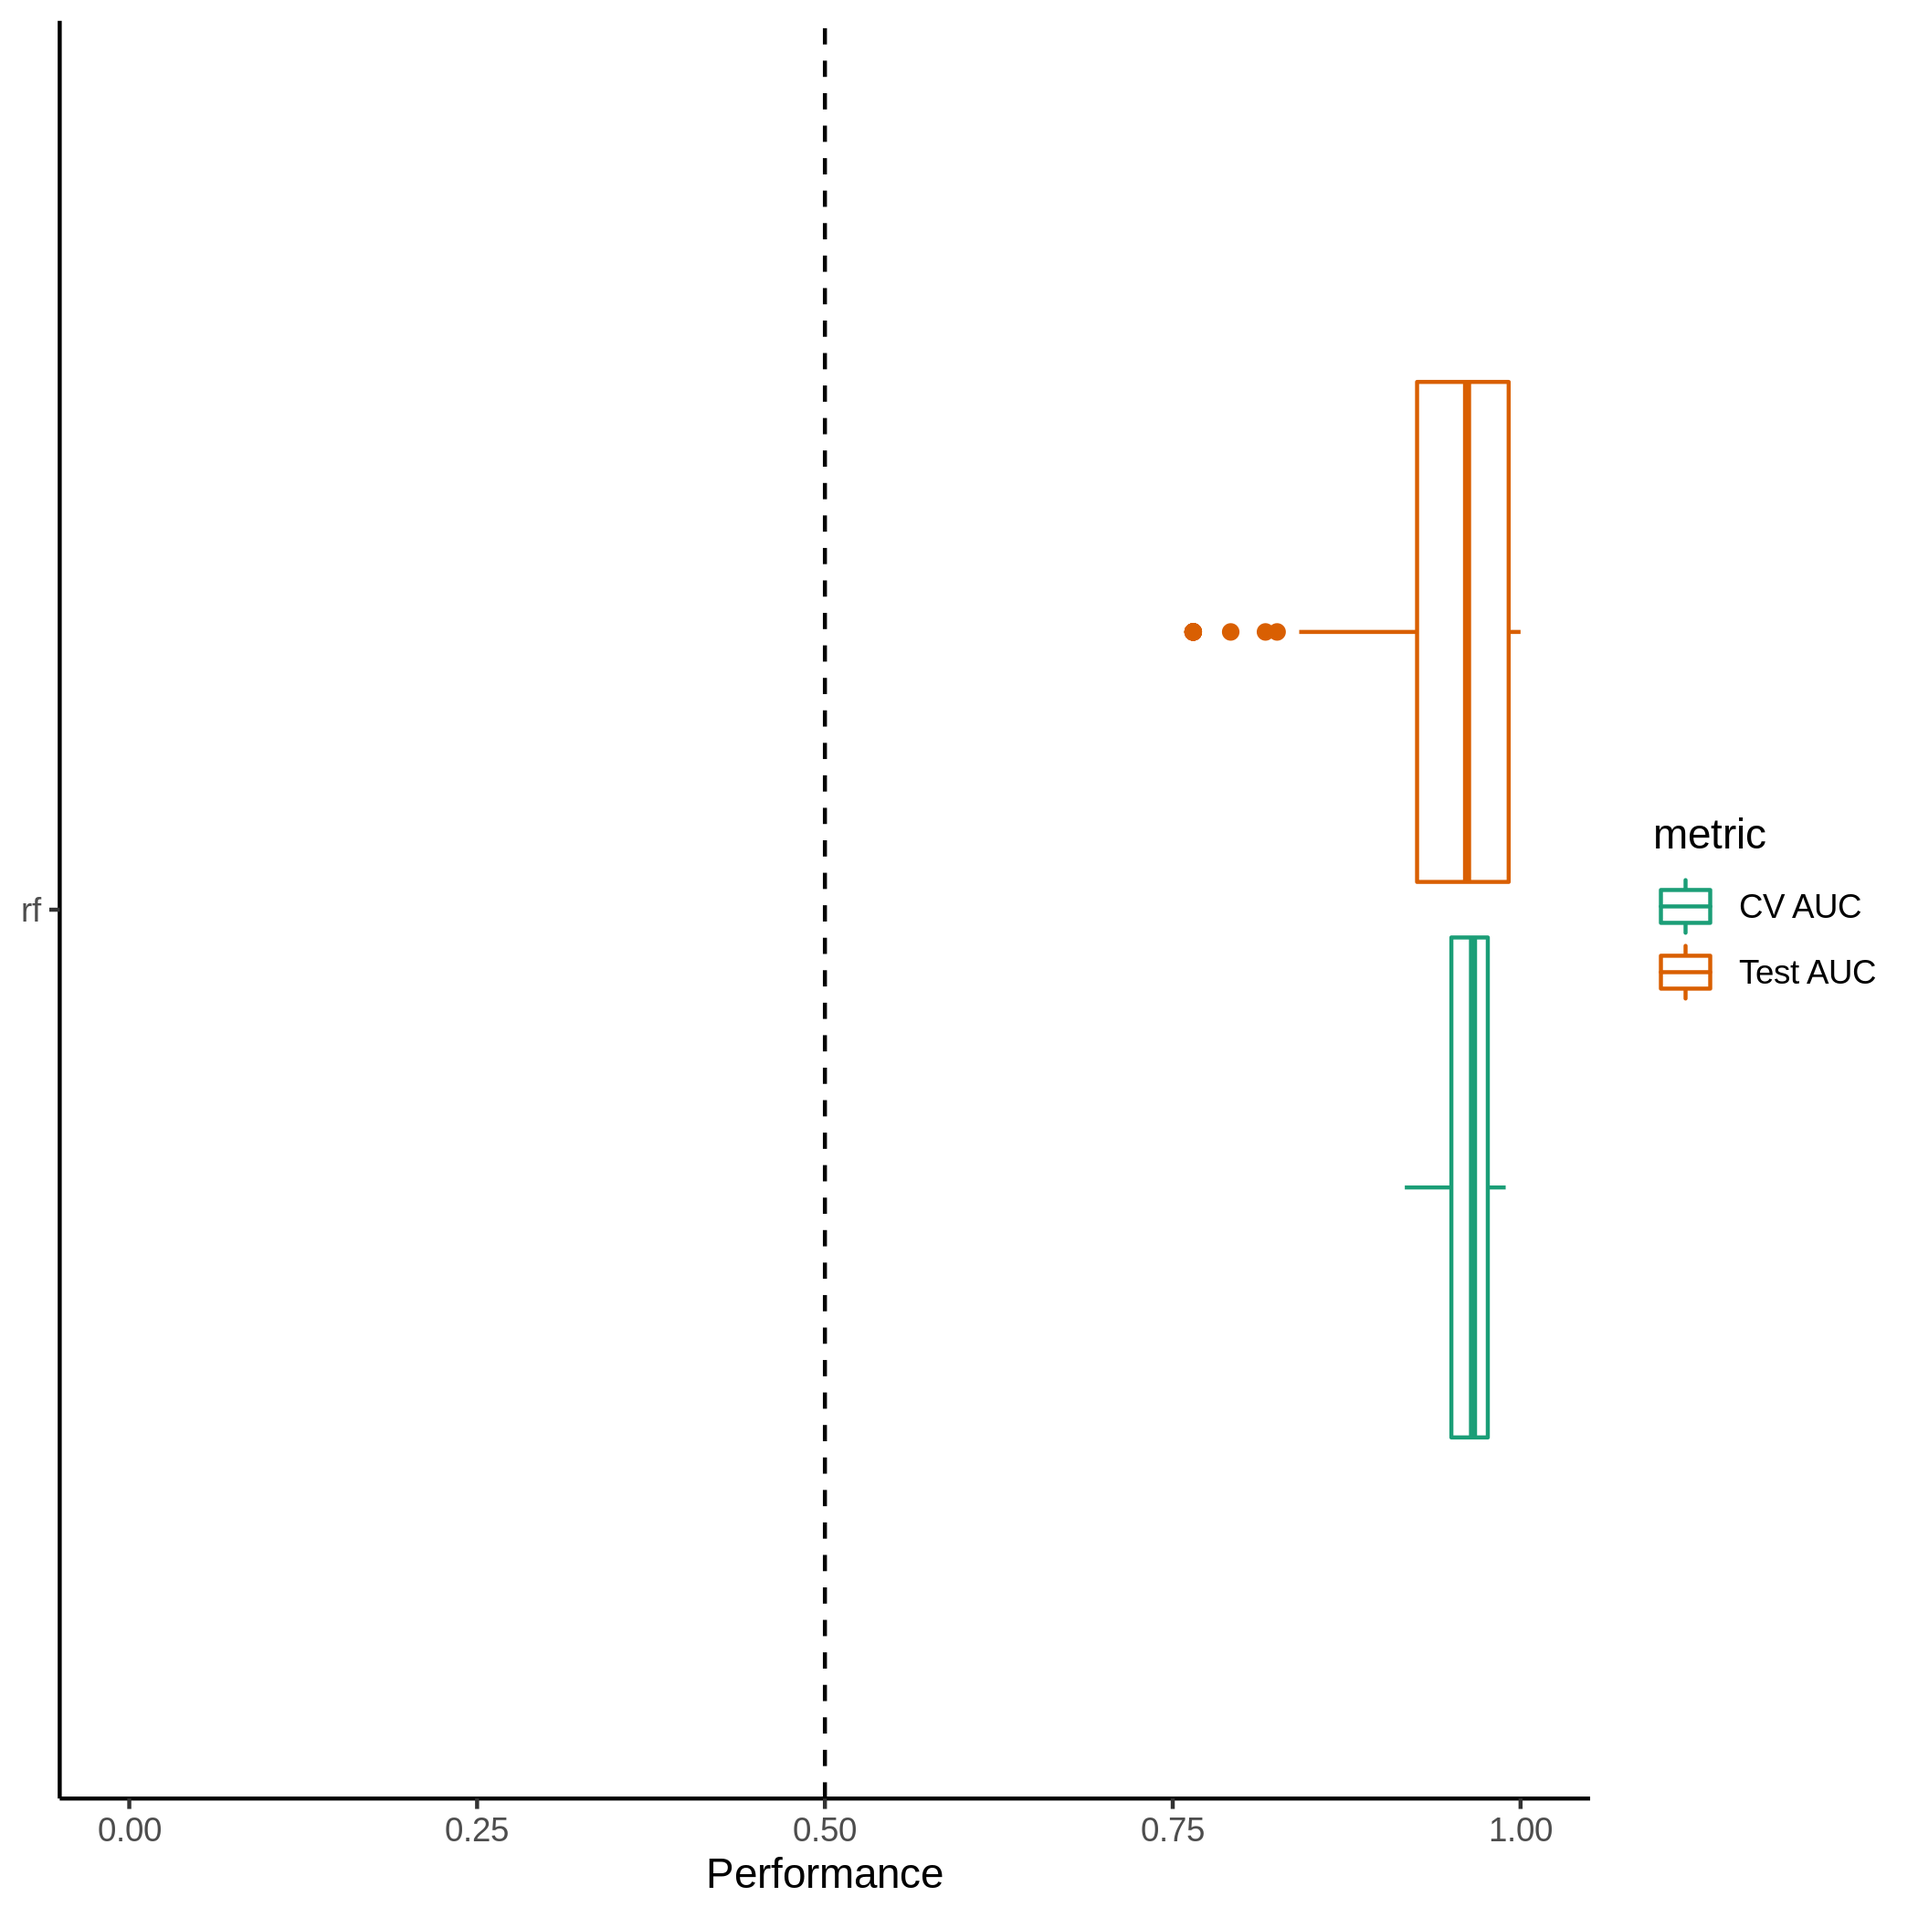
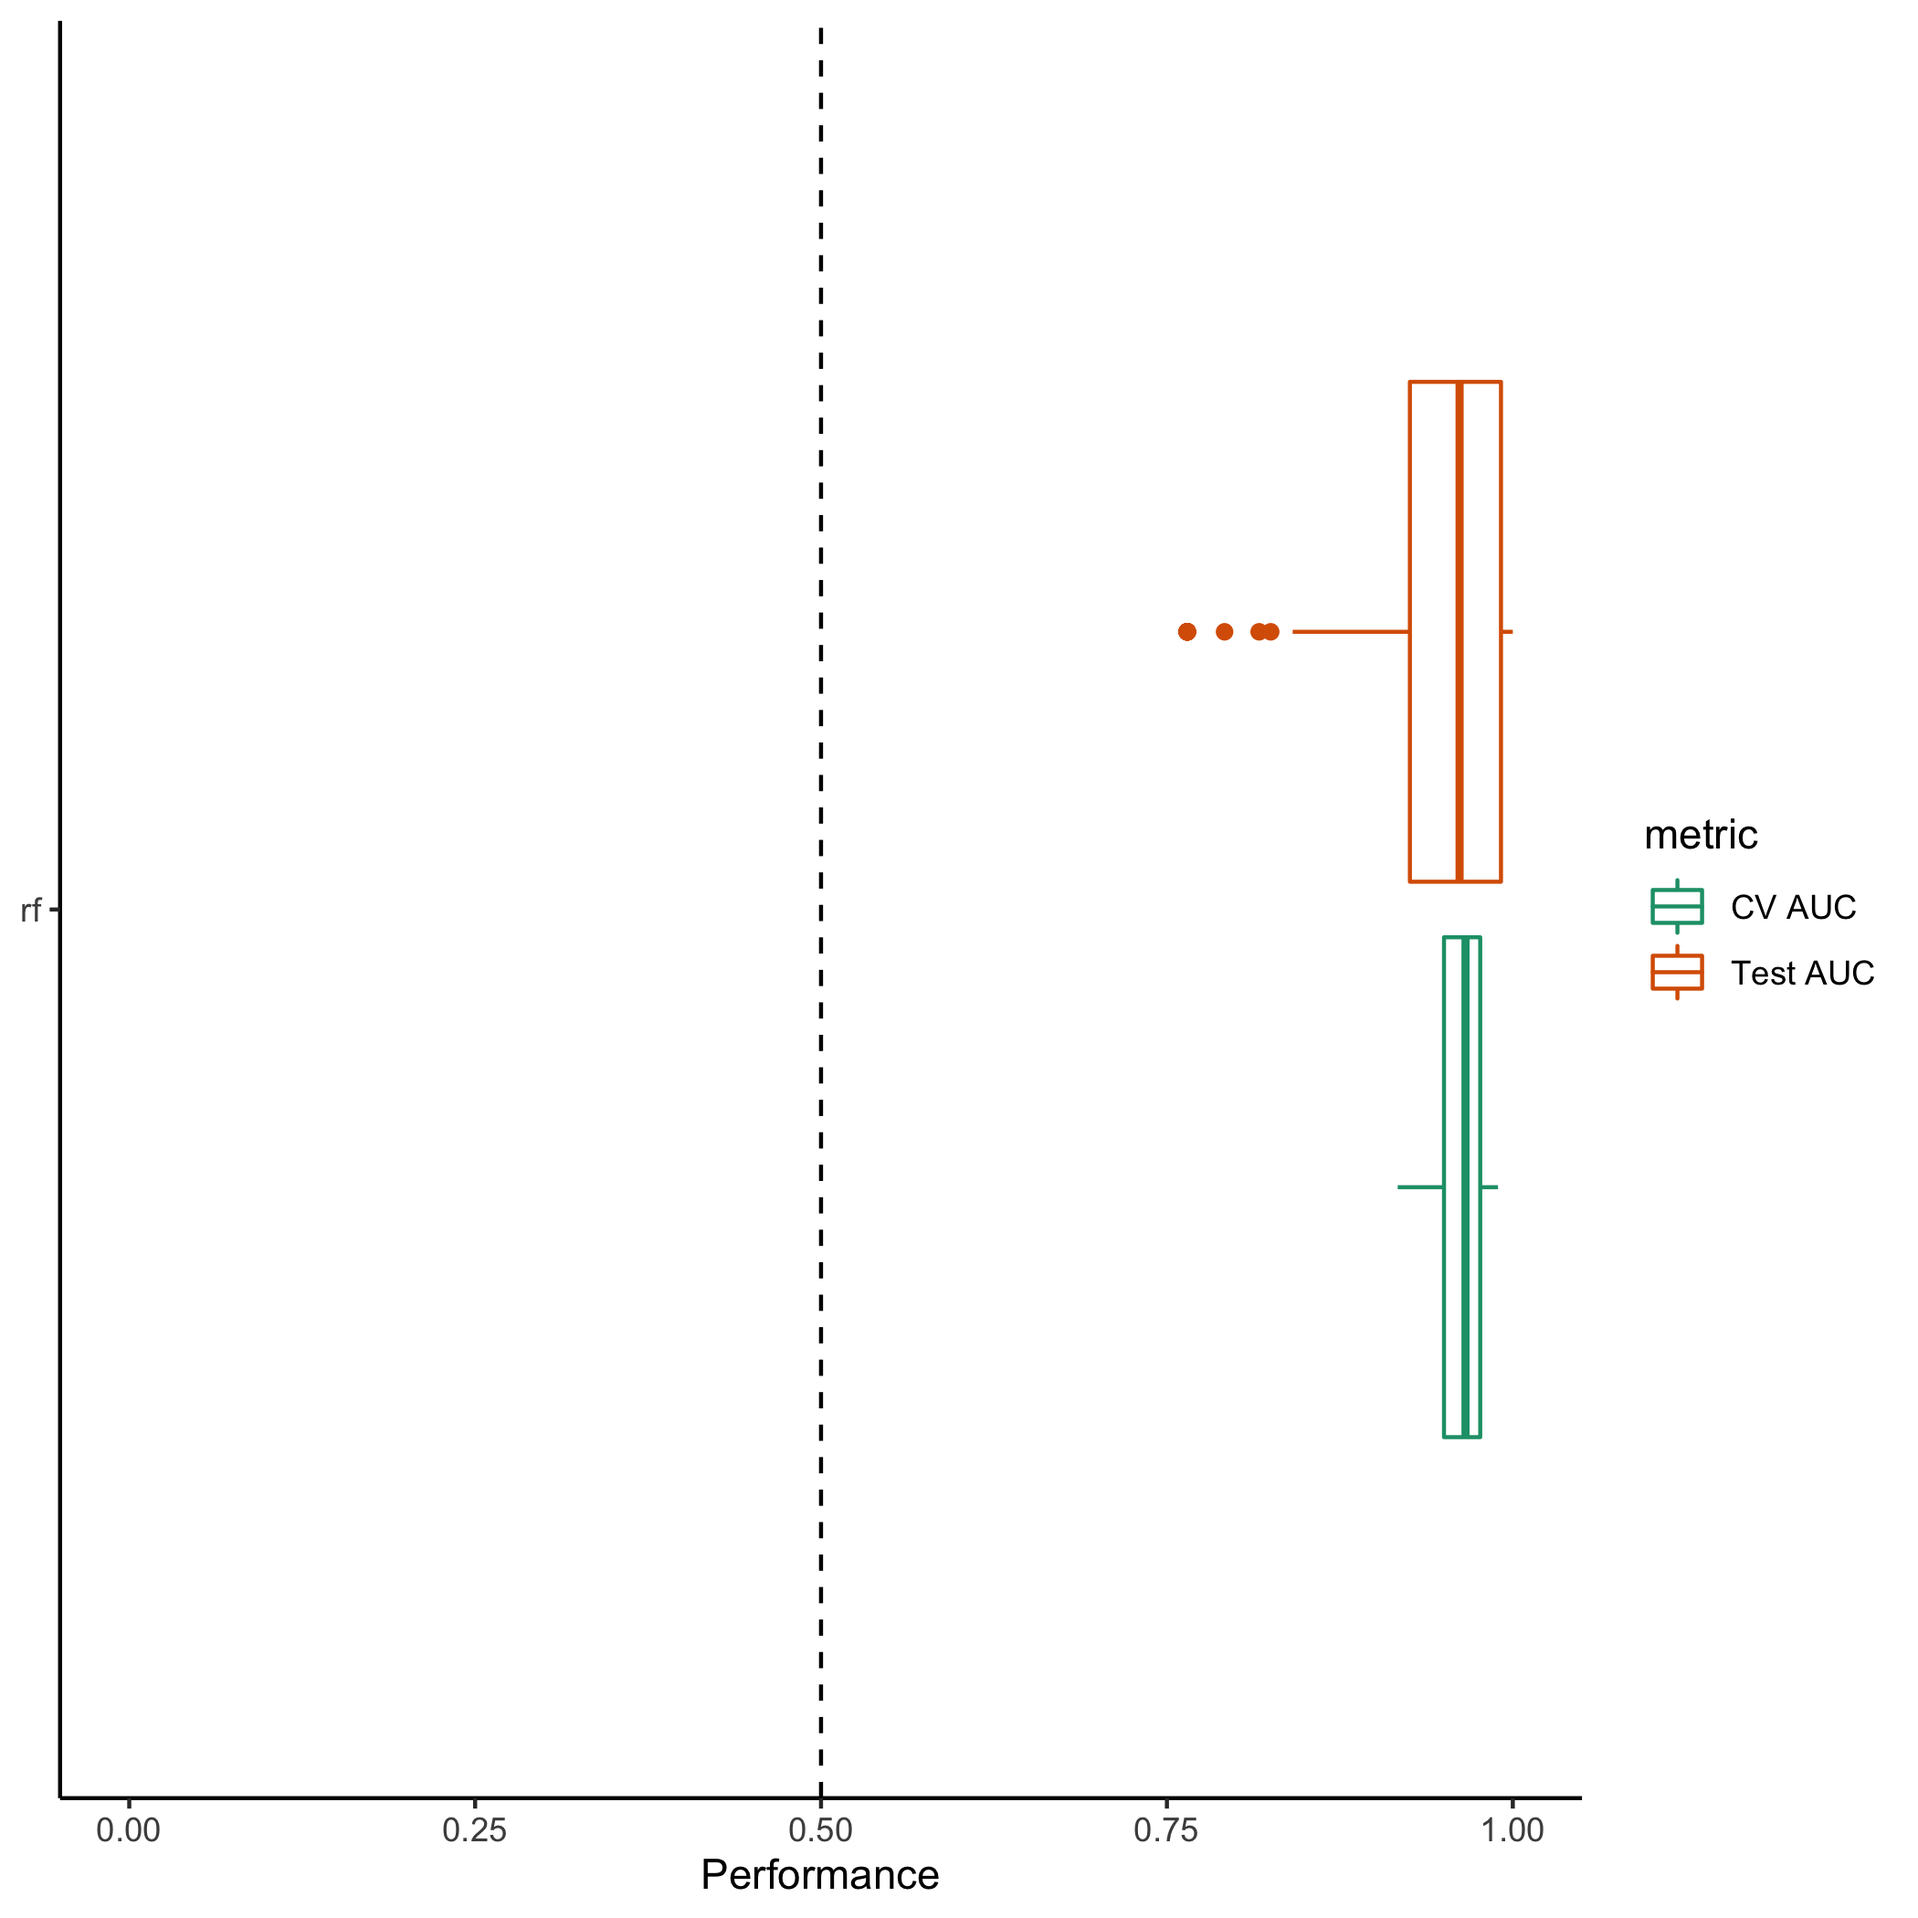
Smaller fig width

diff --git a/report.md b/report.md
@@ -8,14 +8,14 @@ sets using 5-fold cross validation.
 
 ## Model Performance
 
-<img src="figures/performance.png" width="80%" />
+<img src="figures/performance.png" width="60%" />
 
 ## Hyperparameter Performance
 
-<img src="figures/group-cage/hp_performance_rf.png" width="80%" /><img src="figures/group-experiment/hp_performance_rf.png" width="80%" />
+<img src="figures/group-cage/hp_performance_rf.png" width="60%" /><img src="figures/group-experiment/hp_performance_rf.png" width="60%" />
 
 ## Memory Usage & Runtime
 
-<img src="figures/benchmarks.png" width="80%" />
+<img src="figures/benchmarks.png" width="60%" />
 
 Each model training run was given 12 cores for parallelization.
